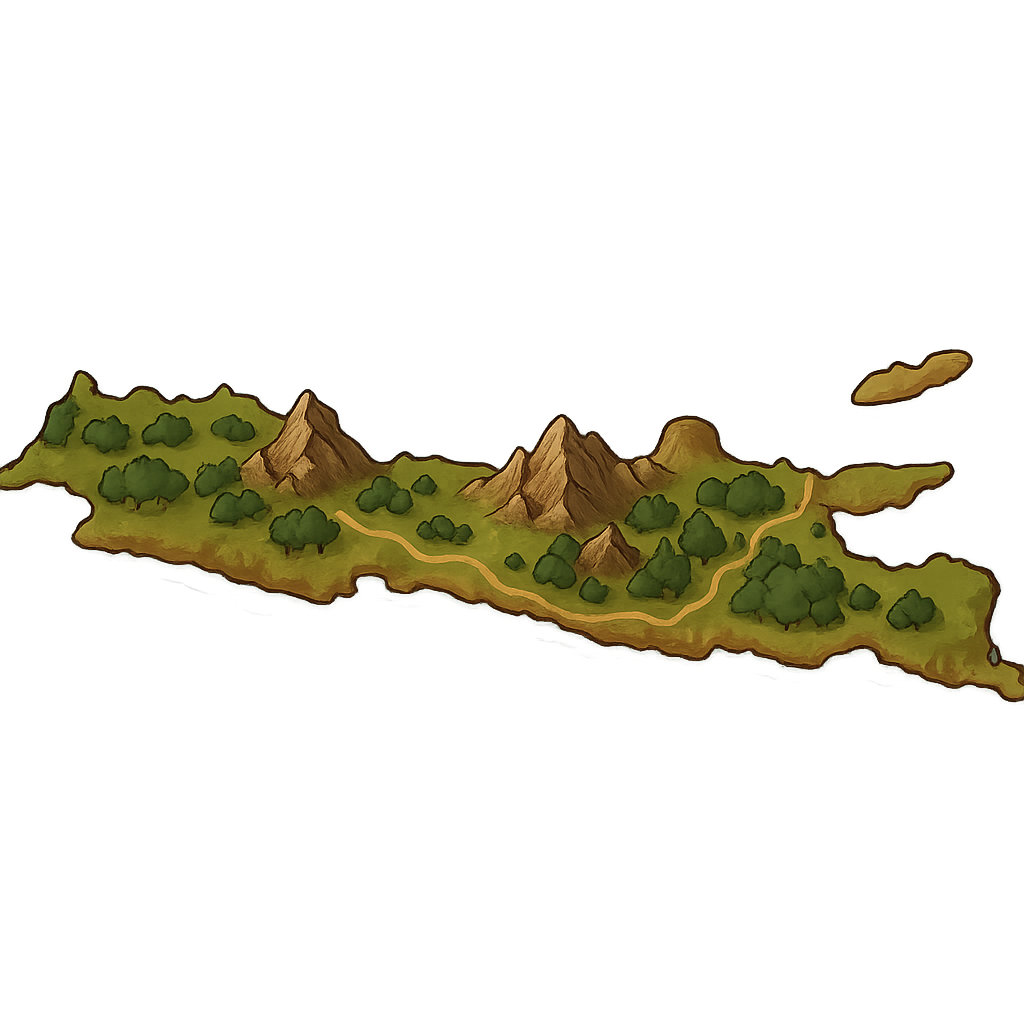
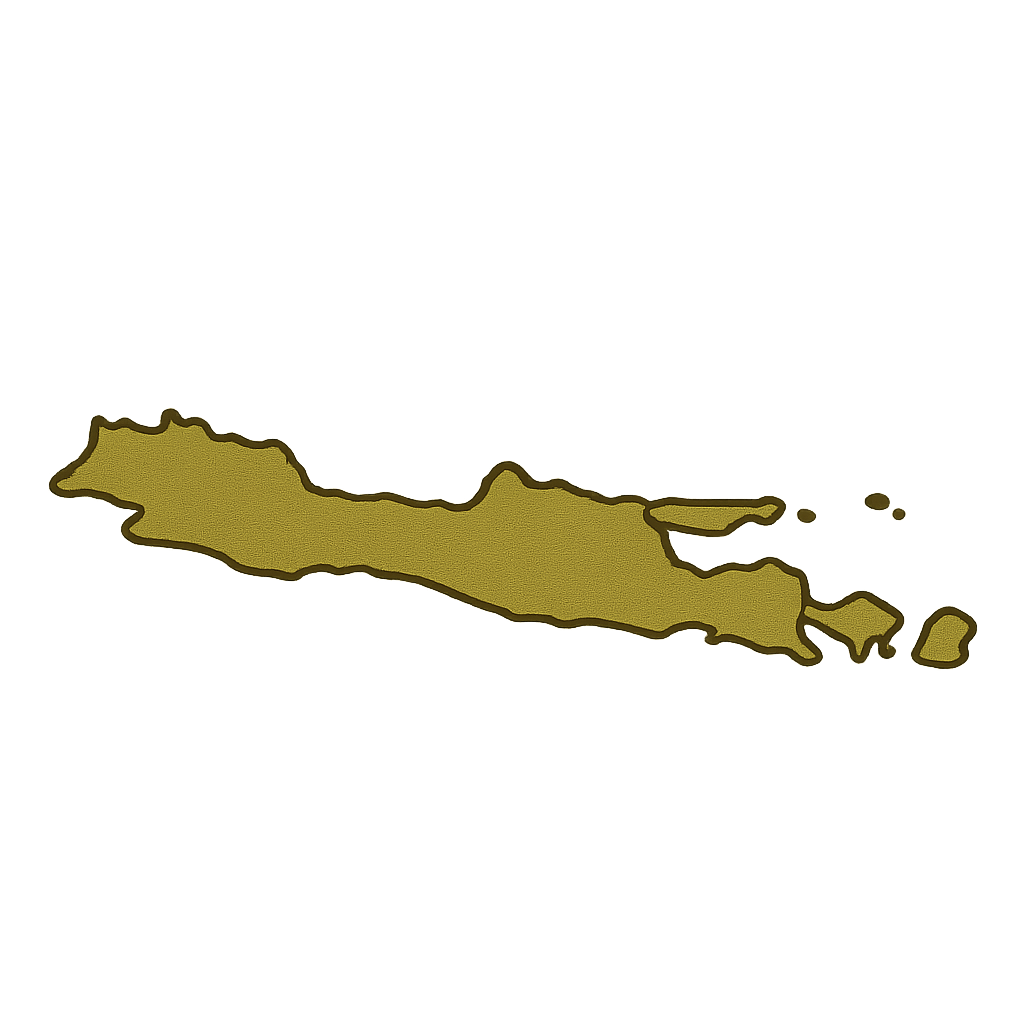
add 8 big pulau indonesia

Changed region(s): [[0.0, 0.3438, 1.0, 0.6875], [0.8125, 0.3438, 0.9688, 0.4062]]

diff --git a/src/riddlewave/ProvinceManager.java b/src/riddlewave/ProvinceManager.java
@@ -65,44 +65,13 @@ public class ProvinceManager {
                 file.createNewFile();
                 // Default initial setup
                 provinceStatus.put("Java", false); // Sudah terbuka
+                provinceStatus.put("Sumatera", true);
                 provinceStatus.put("Kalimantan", true);
                 provinceStatus.put("Sulawesi", true);
-                provinceStatus.put("Sumatra", true);
-                provinceStatus.put("Papua", true);
                 provinceStatus.put("Bali", true);
-                provinceStatus.put("NusaTenggaraBarat", true);
-                provinceStatus.put("NusaTenggaraTimur", true);
+                provinceStatus.put("Nusa", true);
                 provinceStatus.put("Maluku", true);
-                provinceStatus.put("MalukuUtara", true);
-                provinceStatus.put("Aceh", true);
-                provinceStatus.put("Riau", true);
-                provinceStatus.put("KepulauanRiau", true);
-                provinceStatus.put("Jambi", true);
-                provinceStatus.put("SumateraBarat", true);
-                provinceStatus.put("SumateraUtara", true);
-                provinceStatus.put("SumateraSelatan", true);
-                provinceStatus.put("BangkaBelitung", true);
-                provinceStatus.put("Banten", true);
-                provinceStatus.put("JawaBarat", true);
-                provinceStatus.put("JawaTengah", true);
-                provinceStatus.put("JawaTimur", true);
-                provinceStatus.put("Yogyakarta", true);
-                provinceStatus.put("KalimantanBarat", true);
-                provinceStatus.put("KalimantanSelatan", true);
-                provinceStatus.put("KalimantanTengah", true);
-                provinceStatus.put("KalimantanTimur", true);
-                provinceStatus.put("KalimantanUtara", true);
-                provinceStatus.put("SulawesiBarat", true);
-                provinceStatus.put("SulawesiSelatan", true);
-                provinceStatus.put("SulawesiTengah", true);
-                provinceStatus.put("SulawesiTenggara", true);
-                provinceStatus.put("SulawesiUtara", true);
-                provinceStatus.put("Gorontalo", true);
-                provinceStatus.put("PapuaBarat", true);
-                provinceStatus.put("PapuaPegunungan", true);
-                provinceStatus.put("PapuaSelatan", true);
-                provinceStatus.put("PapuaTengah", true);
-                provinceStatus.put("PapuaBaratDaya", true);
+                provinceStatus.put("Papua", true);
 
                 save();
             } else {
